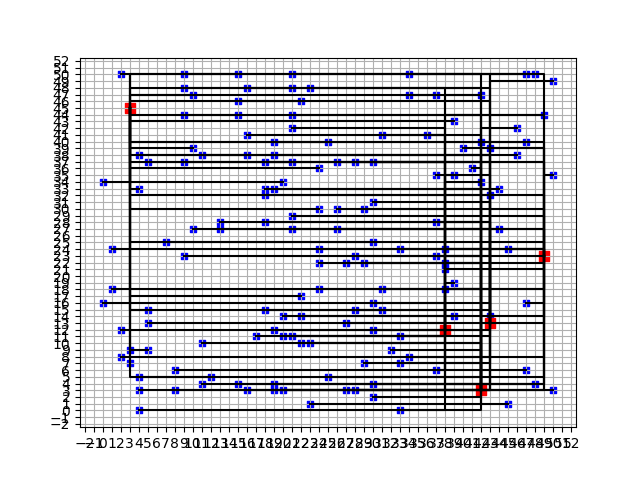
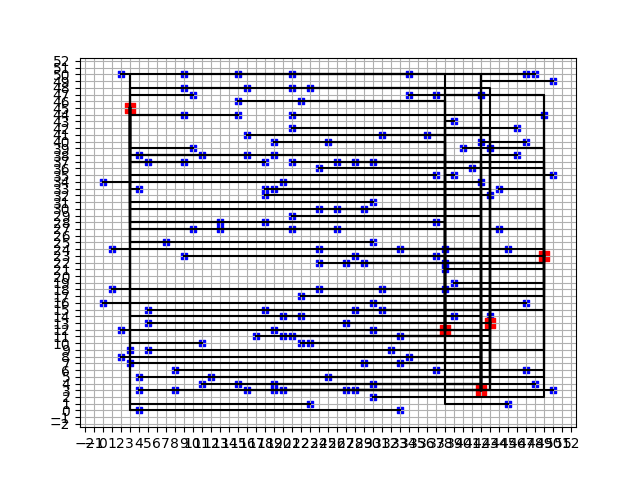
beta shared wires

diff --git a/main.py b/main.py
@@ -3,11 +3,11 @@ import json
 from houses import Houses
 from batteries import Batteries
 from wires import Wires
-from calculator import calculate_cost
+from calculator import calculate_own_cost
 from visualize import visualize_grid
 
 
-def main(wijk_num: str, n: int) -> None:
+def main(wijk_num: str, n: int, save_changes) -> None:
     lowest_cost = 1000000
     # Generate wires
     for i in range(n):
@@ -17,21 +17,22 @@ def main(wijk_num: str, n: int) -> None:
         wires = Wires()
         # Make wires 
         if wires.generate(houses, batteries):
-            cost = calculate_cost(houses, batteries)
+            cost = calculate_own_cost(houses, batteries)
             print(i, cost)
             if cost < lowest_cost:
                 lowest_cost = cost
                 # Plot grid and save
-                visualize_grid(houses.get_member_coords(),
-                   batteries.get_member_coords(),
-                   wires.get_paths(), f'smartgrid_wijk_{wijk_num}.png')
+                if save_changes == 'true':
+                    visualize_grid(houses.get_member_coords(),
+                    batteries.get_member_coords(),
+                    wires.get_paths(), f'smartgrid_wijk_{wijk_num}.png')
         else:
             print(i,'No valid outcome')
-    
-    dict_json = { "district" : wijk_num, "own-costs" : lowest_cost}
-    json_object = json.dumps(dict_json, indent = 2)
-    with open(f'smartgrid_wijk_{wijk_num}.json', "w") as outfile:
-        outfile.write(json_object)
+    if save_changes == 'true':
+        dict_json = { "district" : wijk_num, "own-costs" : lowest_cost}
+        json_object = json.dumps(dict_json, indent = 2)
+        with open(f'smartgrid_wijk_{wijk_num}.json', "w") as outfile:
+            outfile.write(json_object)
 
 
 if __name__ == "__main__":
@@ -44,10 +45,12 @@ if __name__ == "__main__":
                         help="wijk nummer)")
     parser.add_argument("n",
                         help="number of iterations", type=int)
+    parser.add_argument("save_changes",
+                        help="number of iterations")
     
 
     # Read arguments from command line
     args = parser.parse_args()
 
     # Run our line function with provided arguments
-    main(args.wijk, args.n)
+    main(args.wijk, args.n, args.save_changes)

diff --git a/calculator.py b/calculator.py
@@ -1,12 +1,15 @@
 # takes in the amount of wire used and batteries used, and calculates the cost
+from re import T
 from typing import Type
 from batteries import Batteries
 from houses import Houses
+from wires import Wires
+import numpy as np
 
 
-def calculate_cost(houses: Type[Houses], batteries: Type[Batteries]) -> float:
+def calculate_own_cost(houses: Type[Houses], batteries: Type[Batteries]) -> float:
     '''
-    Returns the total cost of the SmartGrid
+    Returns the total cost of the SmartGrid when cannot be shared
 
             Parameters:
                     houses (Houses): 
@@ -27,6 +30,38 @@ def calculate_cost(houses: Type[Houses], batteries: Type[Batteries]) -> float:
         # manhattan distance
         wire_length = abs(house_x - battery_x) + abs(house_y - battery_y)
         total_wire += wire_length
+
+    total_batteries = 0
+    for battery in batteries.get_members():
+        total_batteries += 1
+
+    total_cost = total_wire * 9 + total_batteries * 5000
+    return total_cost
+
+
+def calculate_shared_cost(wires: Type[Wires], batteries: Type[Batteries]) -> float:
+    '''
+    Returns the total cost of the SmartGrid when wires can be shared 
+
+            Parameters:
+                    houses (Houses): 
+                        A class containing House objects
+                    batteries (Batteries): 
+                        A class containing Batteries objects
+
+            Returns:
+                    Total cost (float):
+                         The total cost of the SmartGrid
+    '''
+    total_wire = 0
+    grid = np.zeros(51,51)
+    for path in wires.get_paths():
+        wire_x, wire_y = path
+        grid[wire_x][wire_y] = 1
+
+    for cell in grid:
+        if cell == 1:
+            total_wire += 1
 
     total_batteries = 0
     for battery in batteries.get_members():

diff --git a/wires.py b/wires.py
@@ -95,3 +95,4 @@ class Wires():
     def get_paths(self) -> List[List[Tuple[int, int]]]:
         paths = [wire.path for wire in self.wires.values()]
         return paths
+    
